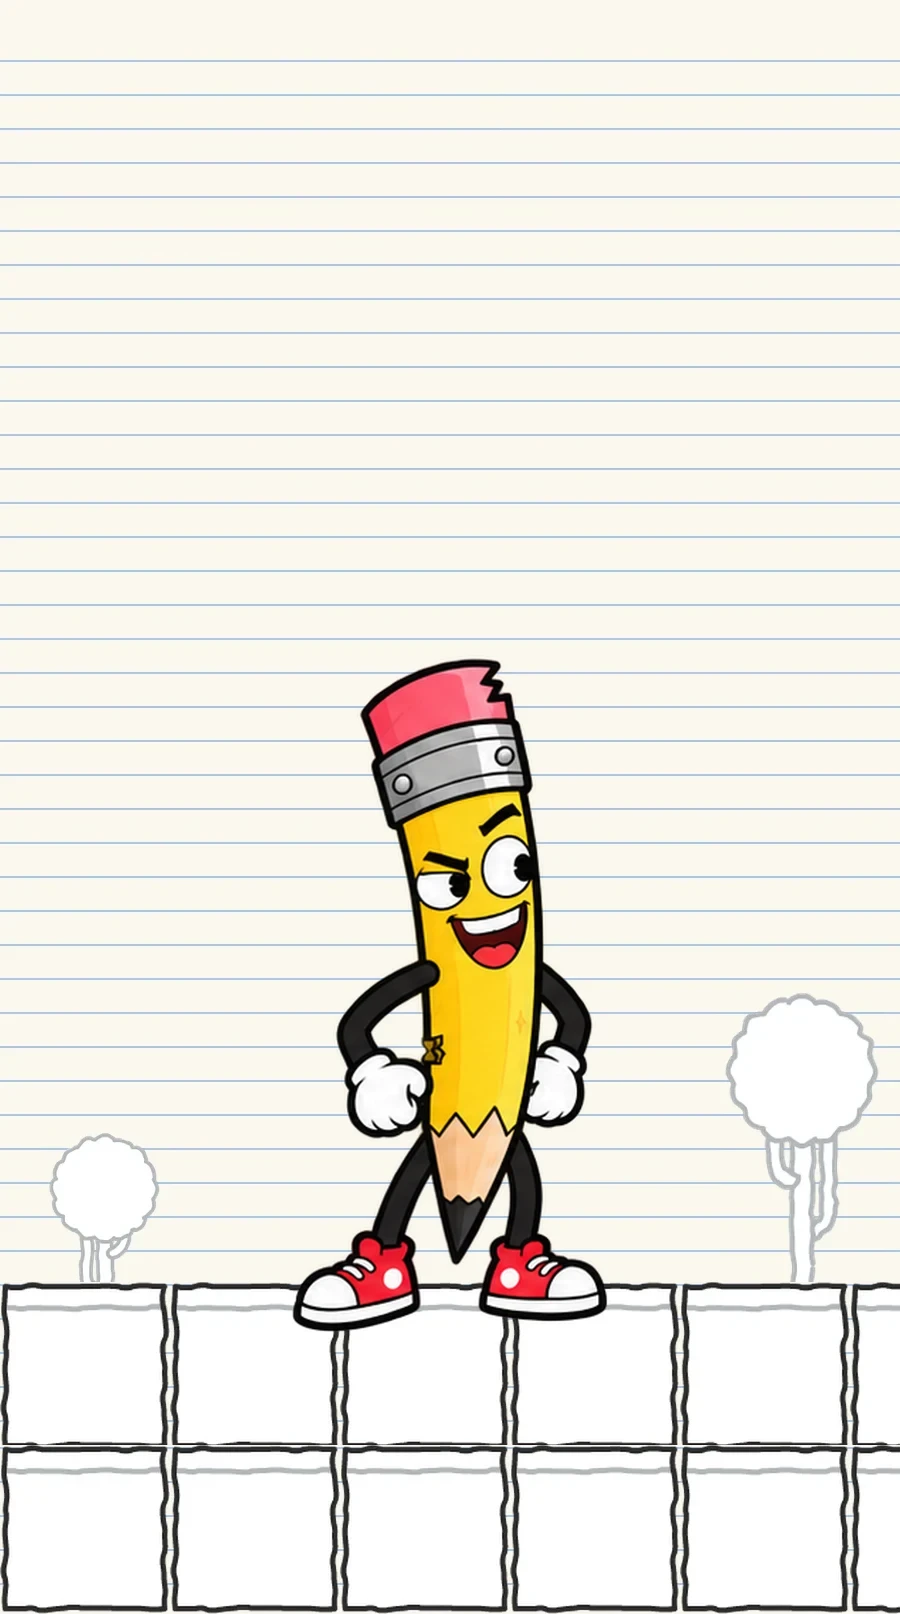
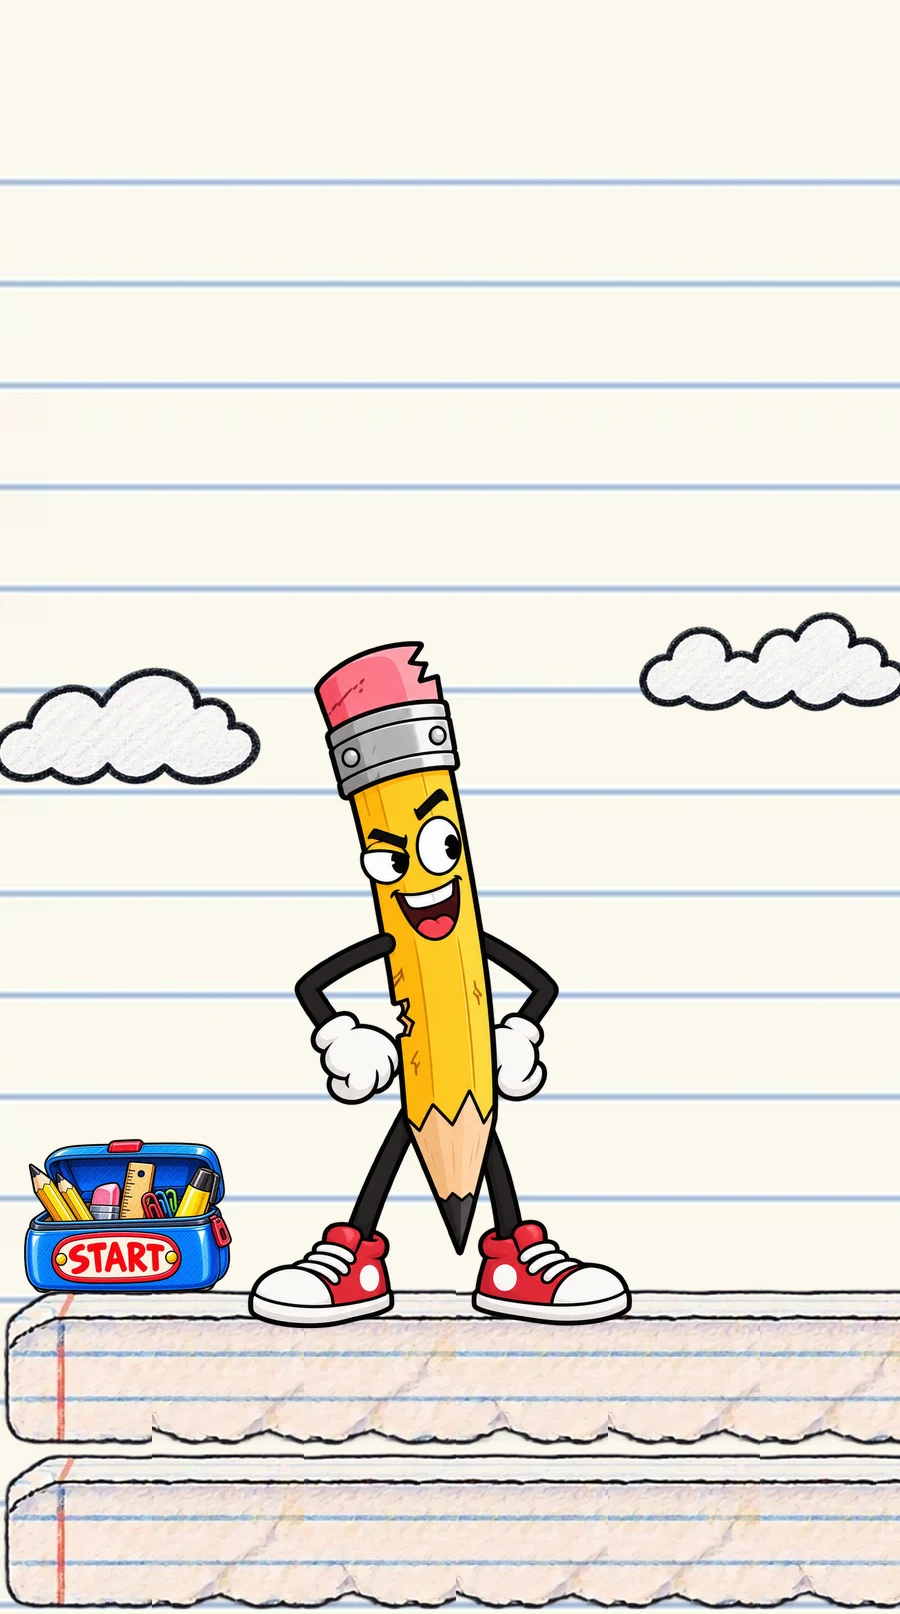
Menu art rebuilt from the in-game sprites (both menus)
Notebook paper, crayon clouds, the new ground tiles, the pencil case and
the sharpener, with the user's better idle.png pencil in the same spot.
tools/compose-menu-art.py regenerates both images.

diff --git a/tools/compose-menu-art.py b/tools/compose-menu-art.py
@@ -1,0 +1,124 @@
+# Rebuilds both menu backgrounds (feed card + expanded menu share them via
+# src/client/menu.css) from the in-game art: notebook paper, clouds, the
+# ground tiles, the pencil case and the sharpener, with the hero pencil
+# from ~/Desktop/Assets/pencil sprites/better idle.png.
+# usage: python3 tools/compose-menu-art.py
+#
+# The pencil must stay exactly where the CSS layout expects him (the Play
+# group sits beside/below him, never over him), so he's placed by the
+# yellow-body/red-shoe box measured on the previous art (PENCIL_BOX) and
+# scaled by its height.
+import subprocess
+import tempfile
+from pathlib import Path
+
+import numpy as np
+from PIL import Image
+
+A = Path('public/assets')
+HERO = Path.home() / 'Desktop/Assets/pencil sprites/better idle.png'
+LAYOUTS = {
+    'menu-background': dict(
+        size=(1672, 941),
+        pencil_box=(326, 206, 520, 799),
+        ground_y=775,
+        rows=1,
+        # Kept clear of the title/Play group (right of centre, top half).
+        title_zone=(640, 0, 1450, 420),
+        # (cloud, centre x, centre y, width), as fractions of the image.
+        clouds=[('cloud-a', 0.10, 0.12, 0.17), ('cloud-d', 0.30, 0.10, 0.10), ('cloud-c', 0.93, 0.52, 0.11)],
+        sharpener=True,
+    ),
+    'menu-background-portrait': dict(
+        size=(900, 1614),
+        pencil_box=(341, 677, 554, 1303),
+        ground_y=1285,
+        rows=2,
+        title_zone=(150, 0, 750, 560),
+        clouds=[('cloud-a', 0.14, 0.45, 0.30), ('cloud-b', 0.86, 0.41, 0.30)],
+        sharpener=False,
+    ),
+}
+
+
+def load(rel):
+    return Image.open(A / rel).convert('RGBA')
+
+
+def fit_h(im, h):
+    return im.resize((max(1, round(im.width * h / im.height)), h), Image.LANCZOS)
+
+
+def overlaps(a, b):
+    return a[0] < b[2] and b[0] < a[2] and a[1] < b[3] and b[1] < a[3]
+
+
+def body_box(im):
+    # Yellow body + red eraser/shoes: the same box measured on the old art.
+    a = np.array(im).astype(int)
+    r, g, b, al = a[..., 0], a[..., 1], a[..., 2], a[..., 3]
+    mask = (al > 128) & (((r > 200) & (g > 160) & (b < 90)) | ((r > 190) & (g < 90) & (b < 110)))
+    ys, xs = np.where(mask)
+    return xs.min(), ys.min(), xs.max(), ys.max()
+
+
+def compose(name, size, pencil_box, ground_y, rows, title_zone, clouds, sharpener):
+    W, H = size
+    out = Image.new('RGBA', size)
+    paper = fit_h(load('ui/paper-bg.webp'), H)
+    for x in range(0, W, paper.width):
+        out.alpha_composite(paper, (x, 0))
+
+    for key, fx, fy, fw in clouds:
+        cloud = load(f'background/{key}.webp')
+        w = round(fw * W)
+        cloud = cloud.resize((w, round(cloud.height * w / cloud.width)), Image.LANCZOS)
+        box = (round(fx * W - cloud.width / 2), round(fy * H - cloud.height / 2))
+        assert not overlaps((*box, box[0] + cloud.width, box[1] + cloud.height), title_zone), key
+        out.alpha_composite(cloud, box)
+
+    tile_h = round((H - ground_y) / rows)
+    ends = [fit_h(load(f'paper/tiles/ground-{s}.webp'), tile_h) for s in ('left', 'right')]
+    centers = [fit_h(load(f'paper/tiles/ground-center-{i}.webp'), tile_h) for i in (1, 2, 3)]
+    for r in range(rows):
+        y, x, i = ground_y + r * tile_h, 0, 0
+        while x < W:
+            tile = ends[0] if x == 0 else centers[(i + r) % 3]
+            out.alpha_composite(tile, (x, y))
+            x += tile.width
+            i += 1
+
+    body_h = pencil_box[3] - pencil_box[1]
+    hero_src = Image.open(HERO).convert('RGBA')
+    sx0, sy0, sx1, sy1 = body_box(hero_src)
+    scale = body_h / (sy1 - sy0)
+    hero = hero_src.resize((round(hero_src.width * scale), round(hero_src.height * scale)), Image.LANCZOS)
+    cx = (pencil_box[0] + pencil_box[2]) / 2
+    hero_pos = (round(cx - (sx0 + sx1) / 2 * scale), round(pencil_box[1] - sy0 * scale))
+
+    # The pencil case stands left of him, as at a level's spawn, sized to
+    # fit the gap between him and the edge.
+    solid_cols = np.where((np.array(hero_src.getchannel('A')) > 128).any(axis=0))[0]
+    hero_left = hero_pos[0] + round(solid_cols.min() * scale)
+    case_src = load('markers/spawn.webp')
+    case_h = min(round(body_h * 0.3), round((hero_left - 40) * case_src.height / case_src.width))
+    case = fit_h(case_src, case_h)
+    out.alpha_composite(case, (hero_left - 16 - case.width, ground_y - case.height + 8))
+    if sharpener:
+        sharp = fit_h(load('markers/finish.webp'), round(body_h * 0.34))
+        out.alpha_composite(sharp, (W - 50 - sharp.width, ground_y - sharp.height + 8))
+
+    out.alpha_composite(hero, hero_pos)
+    with tempfile.NamedTemporaryFile(suffix='.png') as tmp:
+        out.convert('RGB').save(tmp.name)
+        subprocess.run(['cwebp', '-quiet', '-q', '88', tmp.name, '-o', str(A / f'ui/{name}.webp')], check=True)
+    # Re-measure around where he should be (the case, sharpener and tiles
+    # have yellows/reds of their own).
+    x0, y0, x1, y1 = pencil_box
+    region = (x0 - 40, y0 - 40, x1 + 40, y1 + 20)
+    bx0, by0, bx1, by1 = body_box(Image.open(A / f'ui/{name}.webp').convert('RGBA').crop(region))
+    print('wrote', name, 'pencil body box', (bx0 + region[0], by0 + region[1], bx1 + region[0], by1 + region[1]), 'was', pencil_box)
+
+
+for layout_name, layout in LAYOUTS.items():
+    compose(layout_name, **layout)
